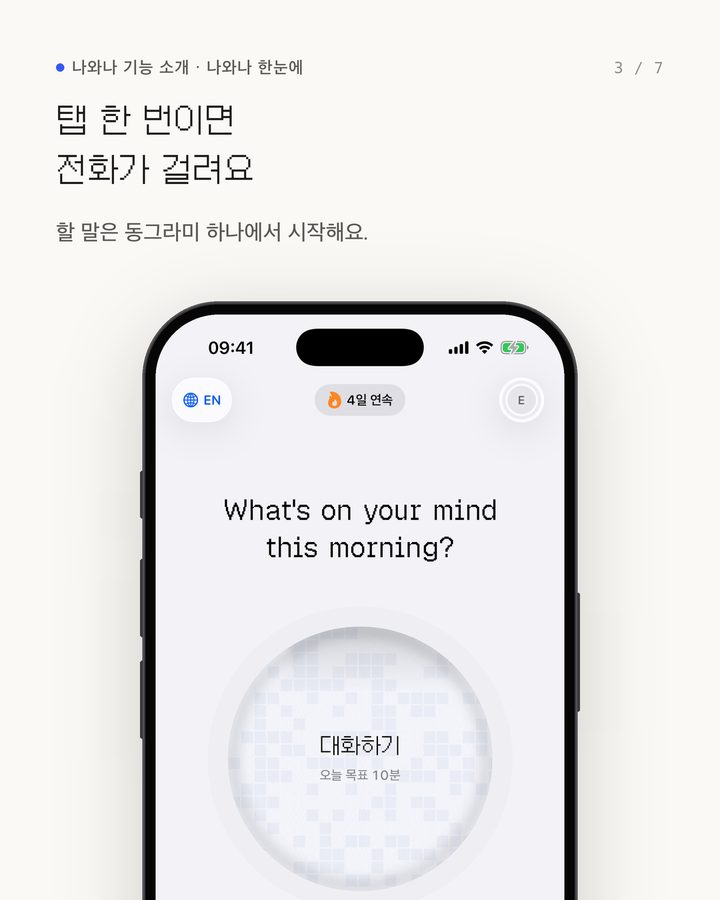
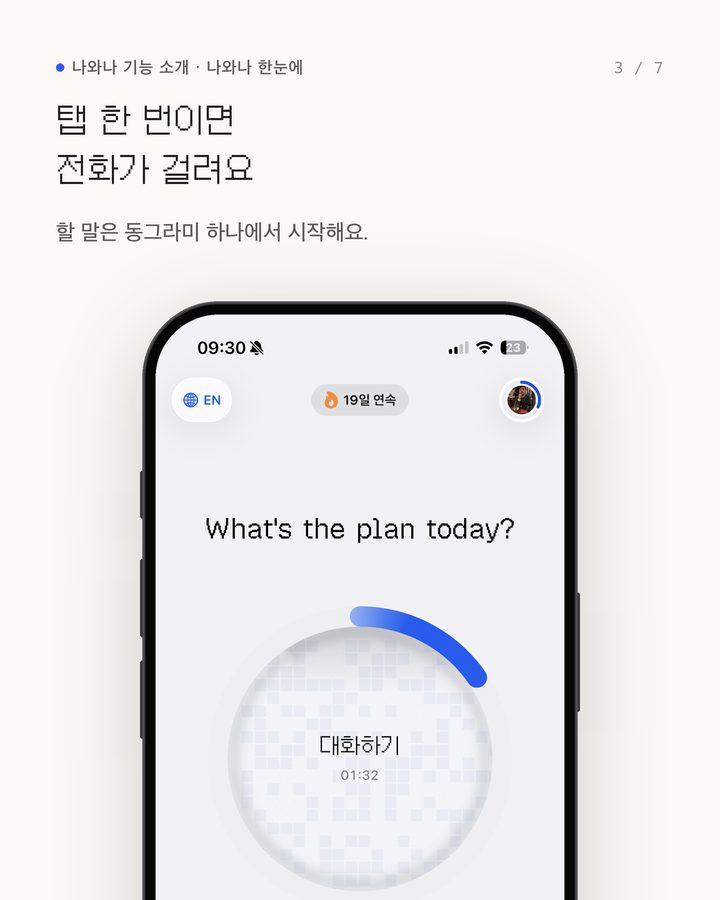
feat(scripts): 기능 소개에 실기기 캡처 6장 — 코치 모드·속도·뉴스·통화 중 교정
scripts/feature-series/shots/<lang>/ 을 커밋되는 교체 폴더로 두고, 같은 이름이면
시뮬레이터 캡처(out/, git 밖)보다 이쪽을 쓴다 — 실기기 스크린샷이 다시 찍기에
덮어써지지 않게.

- 통화 설정 편: 속도 메뉴, 코치 모드 켜기, 답을 고민하는 동안의 힌트
  (캡처 필요였던 것 해결)
- 전화 한 통 편: 실제 홈(링), 새 장 "오늘 뉴스로 말을 걸어요"
- 교정 편: 새 장 "통화 중에도 바로 고쳐줘요"
- 미리 보기·나만의 상황 편: 실제 상황연습 탭
상황연습 탭의 아이 사진과 연예인 사진(두 곳)은 흐리게 처리해 넣었다 —
공개 마케팅 이미지에 그대로 쓸 수 없는 사진이라.

Android: n/a

diff --git a/scripts/feature-series/render.py b/scripts/feature-series/render.py
@@ -247,7 +247,11 @@ def render_slide(slide, ep, idx, total, raw_dir, F):
             F["body"].draw(d, s(W / 2) - F["body"].width(slide["foot"]) / 2, s(H - 110), slide["foot"], FAINT)
         return canvas
 
-    shot = os.path.join(raw_dir, slide["shot"] + ".png")
+    # A screenshot in shots/<lang>/ (committed, e.g. from a real phone) wins over the
+    # simulator capture of the same name in out/<lang>/raw/ (regenerated, not in git).
+    lang_dir = os.path.basename(os.path.dirname(raw_dir.rstrip("/")))
+    manual = os.path.join(HERE, "shots", lang_dir, slide["shot"] + ".png")
+    shot = manual if os.path.exists(manual) else os.path.join(raw_dir, slide["shot"] + ".png")
 
     if kind == "zoom":
         d = ImageDraw.Draw(canvas)
